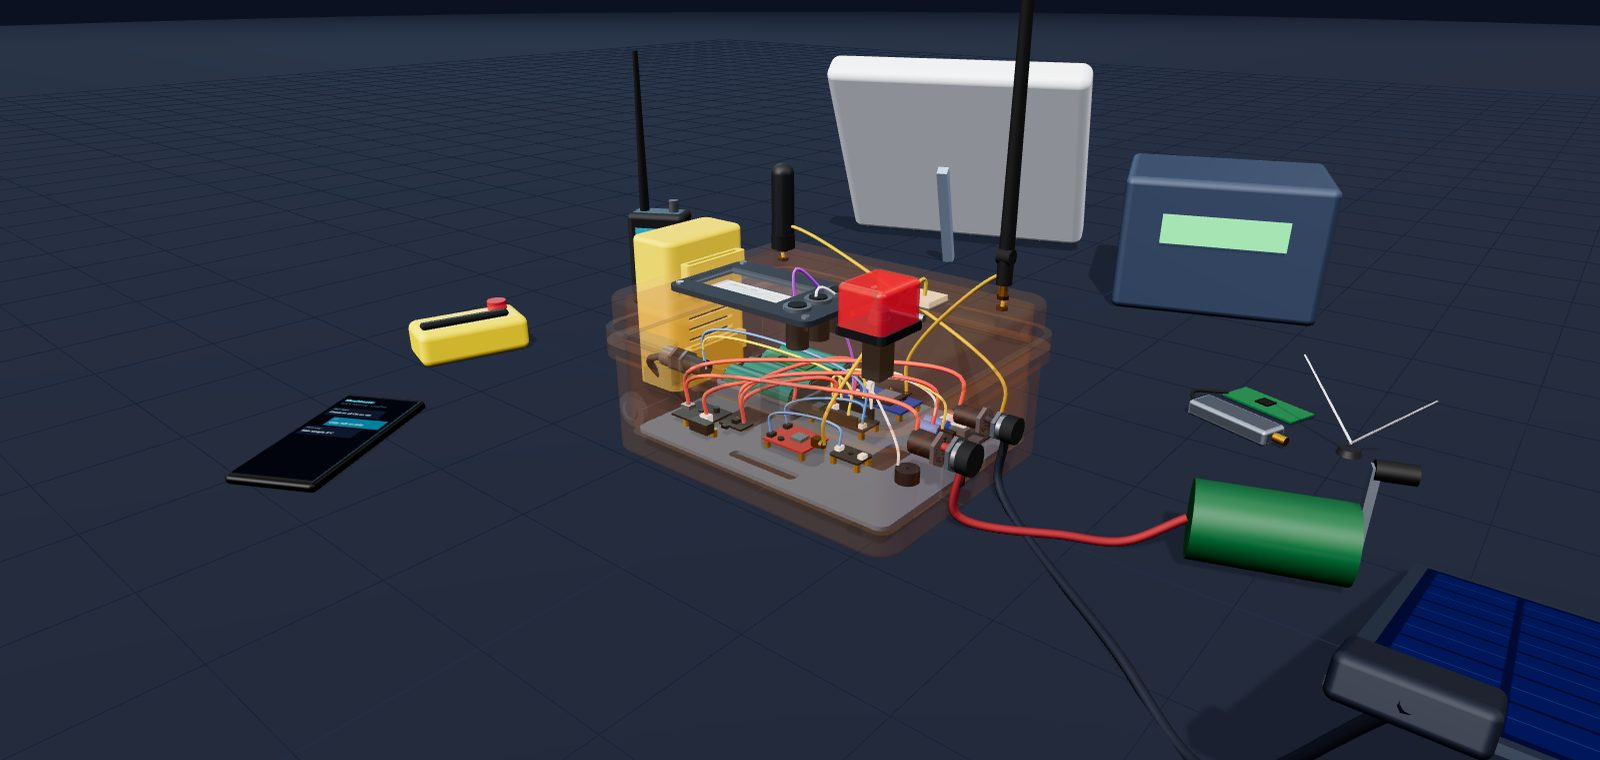
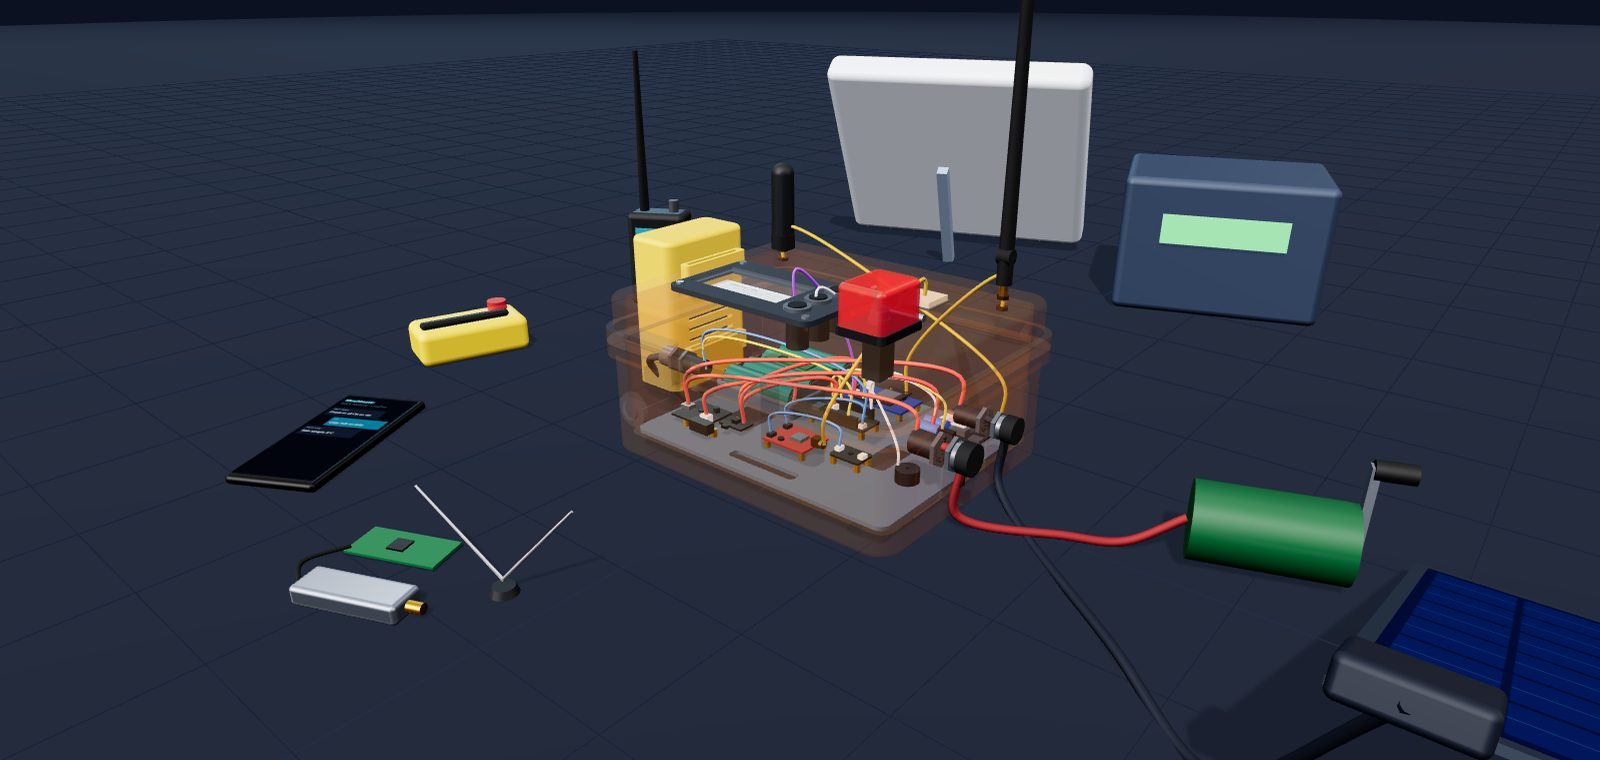
Survival Radio: tidy accessory layout and diagram labels
Move the SDR receiver to the front-left so it no longer sits behind the
hand crank, refresh the thumbnail, and keep the diagram's BLE and mesh
labels apart.

Claude-Session: https://claude.ai/code/session_01VwqAm6Mqsk7U2Rh8YYcwue

Changed region(s): [[0.1562, 0.6961, 0.3125, 0.8171], [0.7188, 0.5145, 0.875, 0.6053], [0.3125, 0.7566, 0.3438, 0.7868]]

diff --git a/projects/survival-radio/app.js b/projects/survival-radio/app.js
@@ -400,7 +400,7 @@ function buildExternals() {
   sdr.add(lead);
   sdr.add(cyl(0.07, 0.09, 0.05, std(0x18181b), 0.85, 0.025, 0.2));
   for (const sgn of [-1, 1]) { const el = cyl(0.008, 0.012, 0.75, std(0xd4d4d8, { m: 0.9, r: 0.25 }), 0.85 + sgn * 0.25, 0.36, 0.2); el.rotation.z = -sgn * 0.75; sdr.add(el); }
-  addExternal('sdr', sdr, [2.3, 0, -3.0], -0.35);
+  addExternal('sdr', sdr, [-1.2, 0, 2.75], 0.4);
   // Folding solar panel shown at 20 W size (4 x 190 x 290 mm cells)
   const sol = new THREE.Group();
   const solTex = canvasTex(256, 384);
